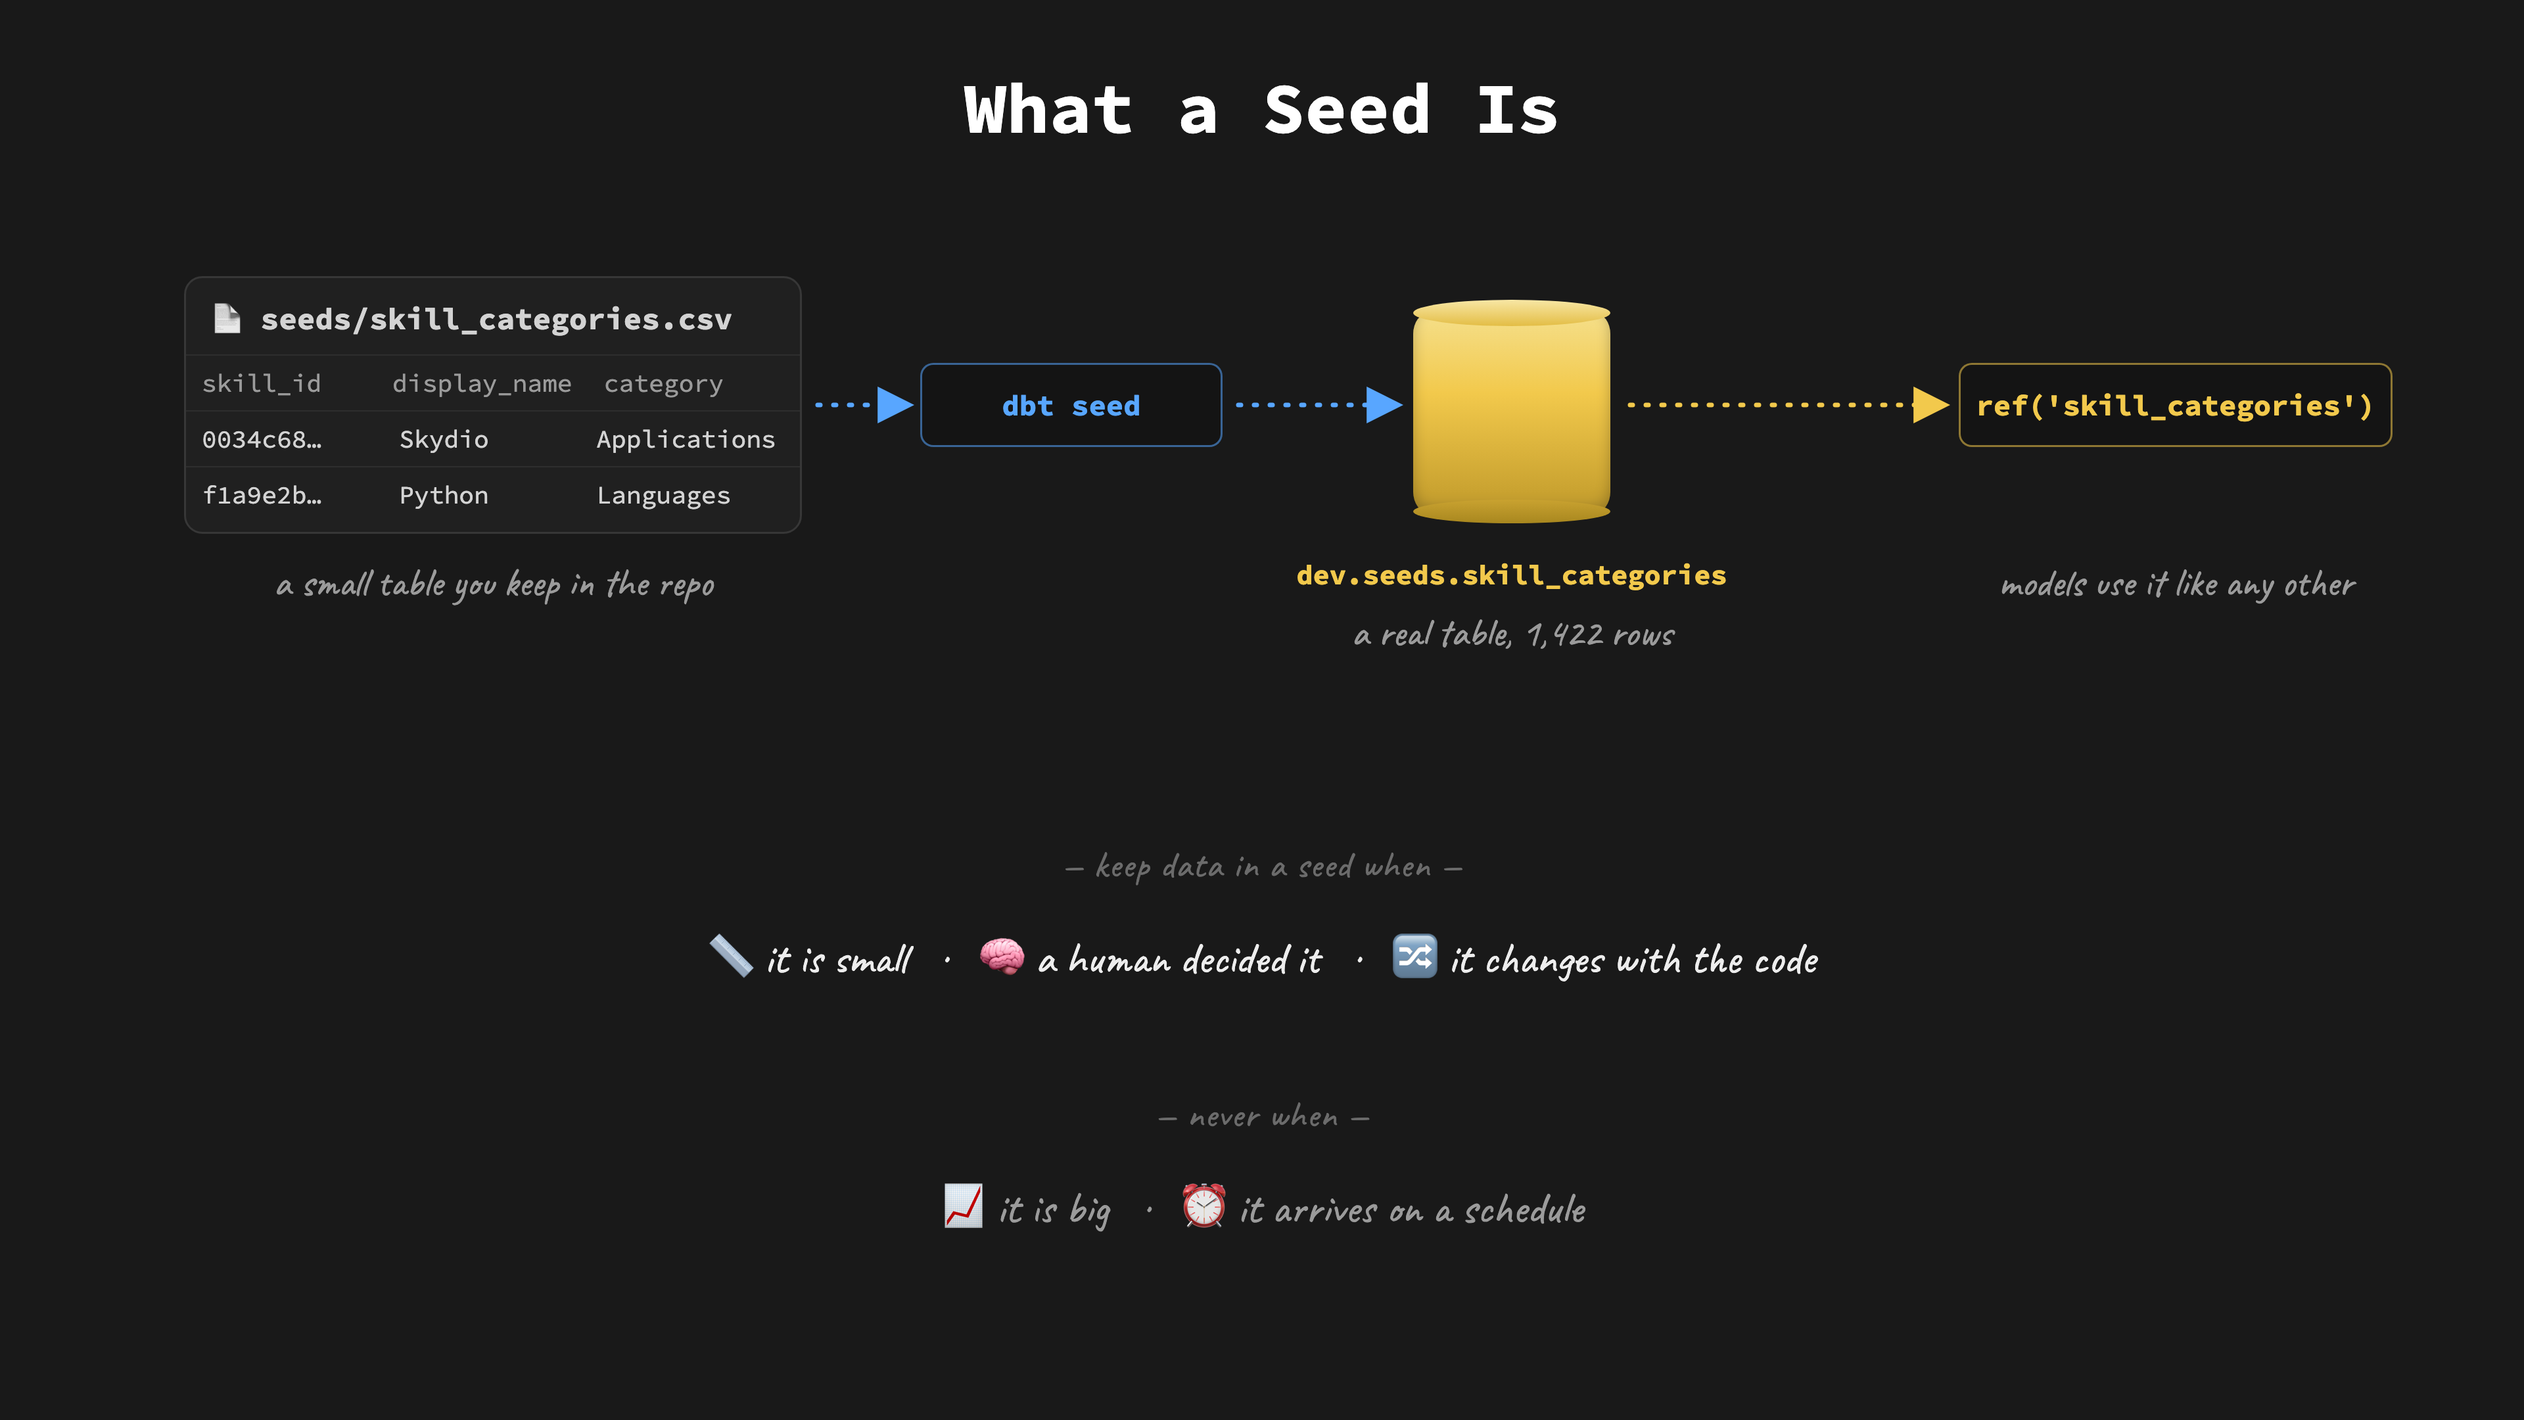
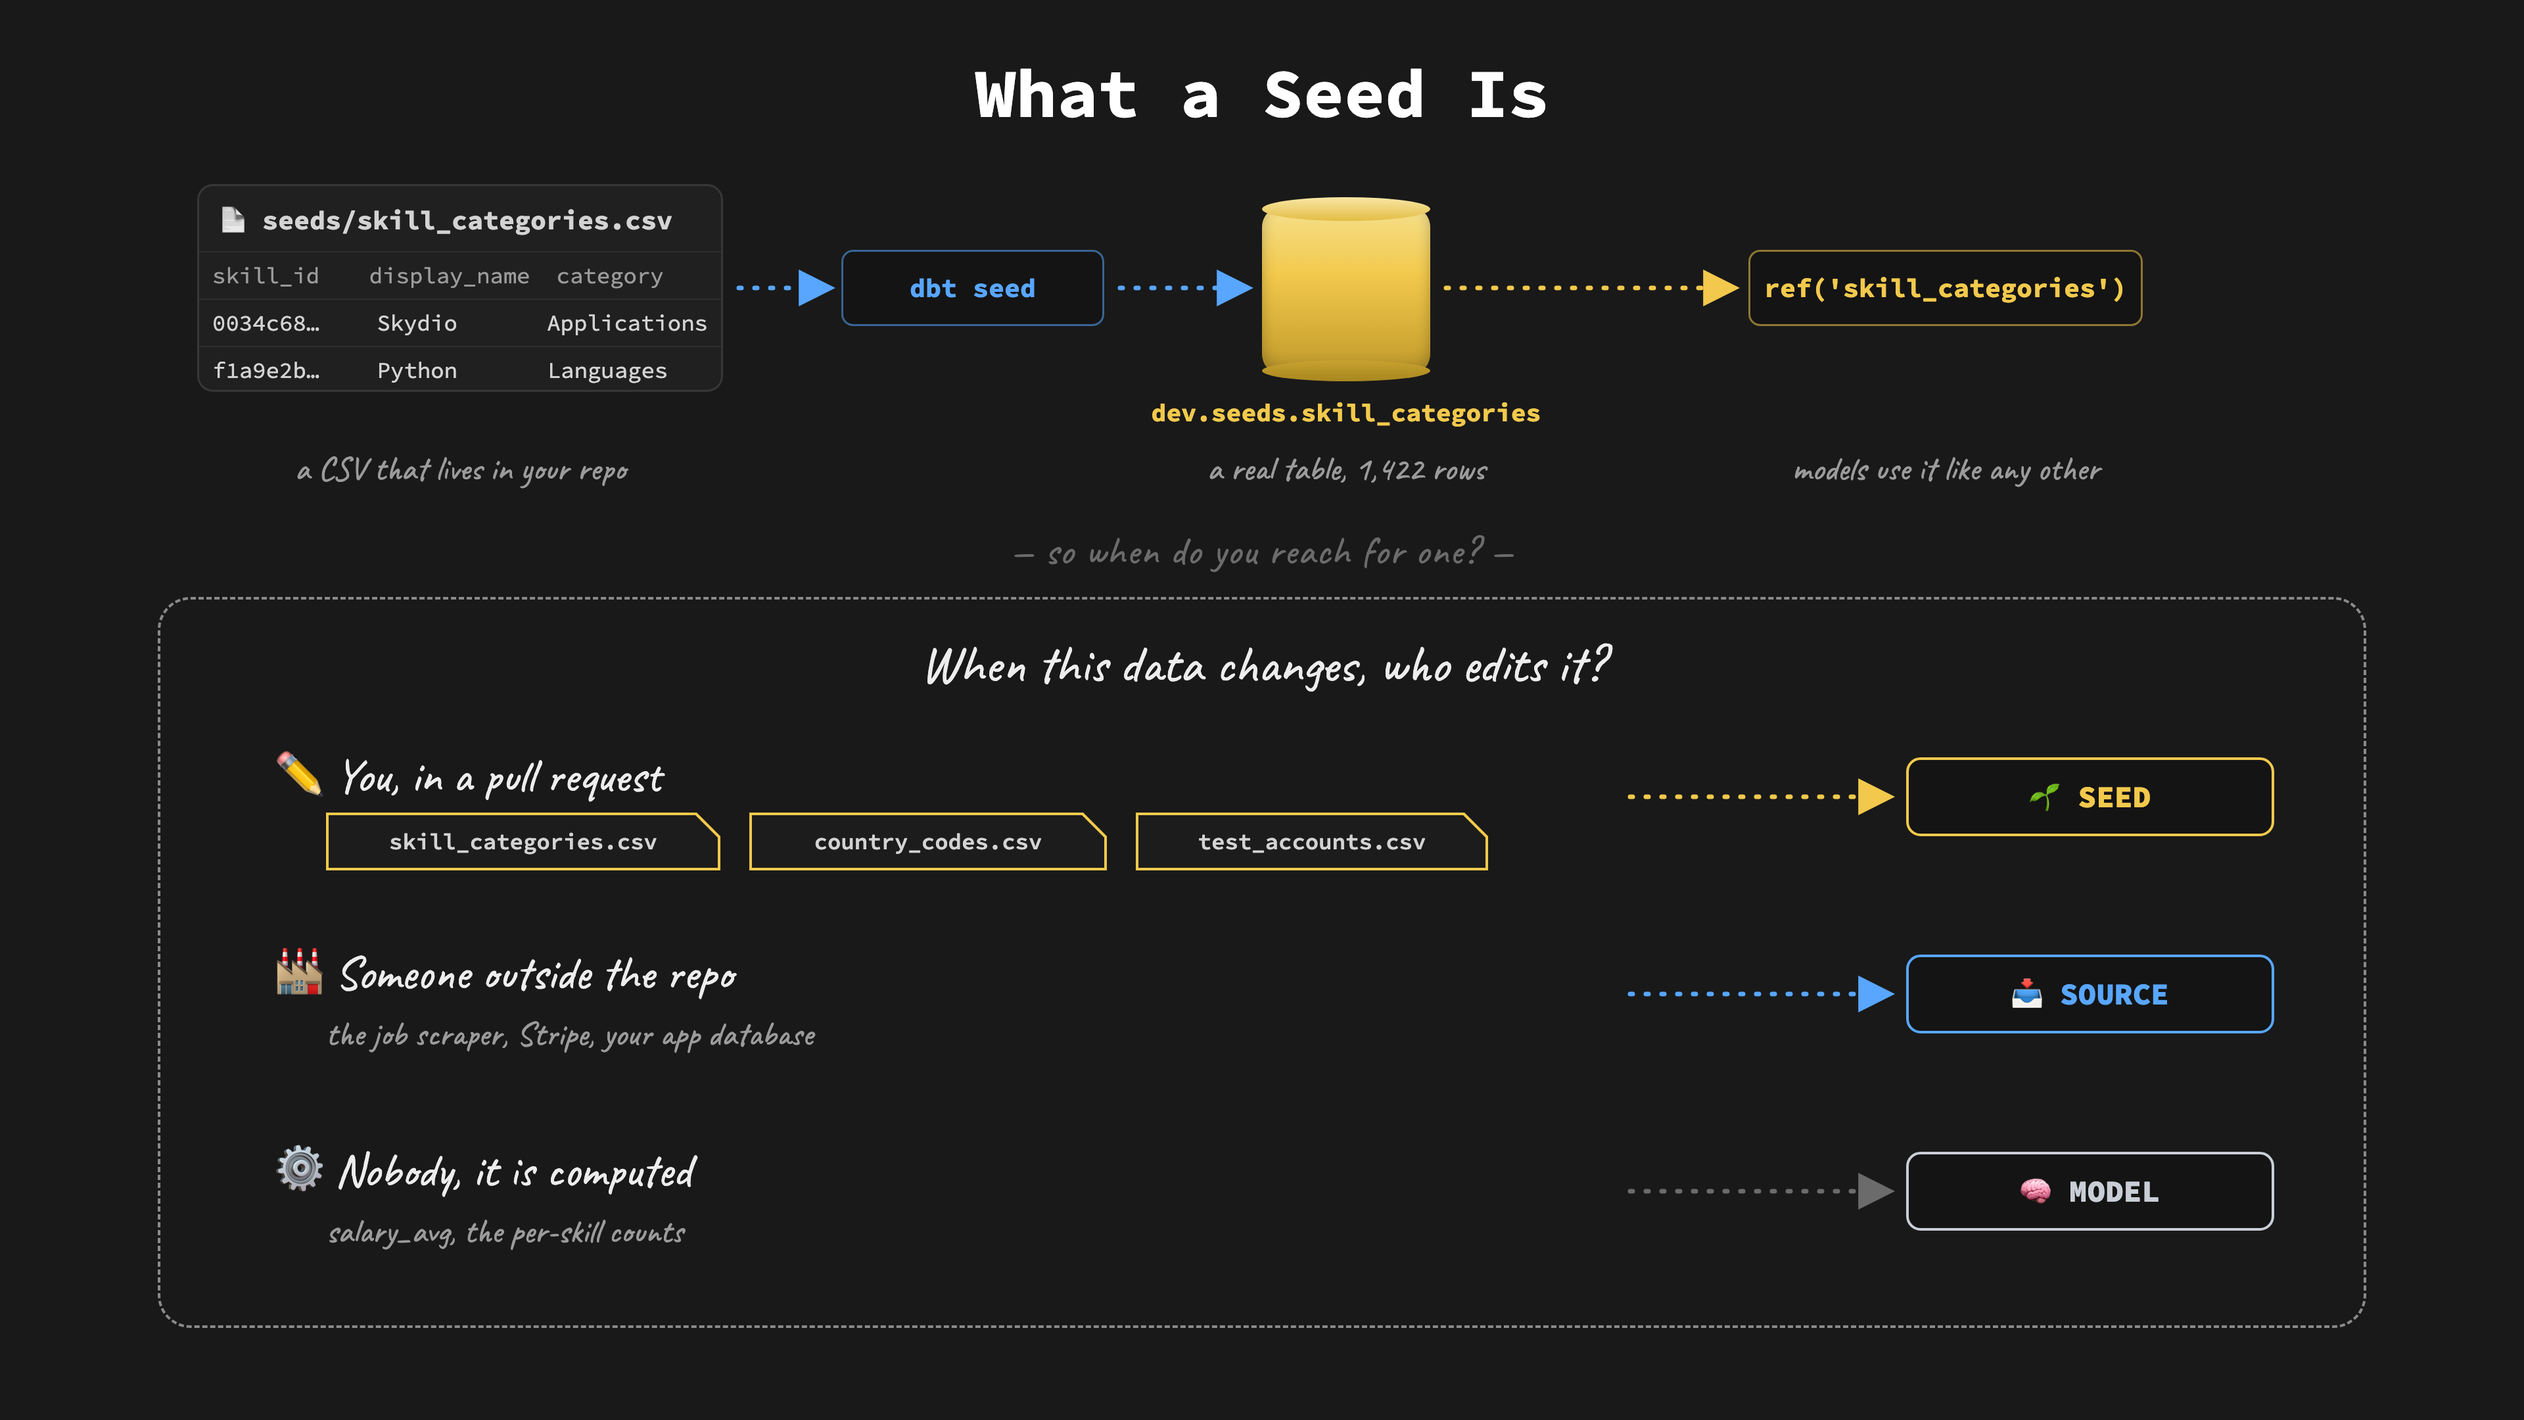
3.07_seeds v3: rebuilt around the decision question (Luke: 'it still doesn't answer when someone would use it')
Mechanism strip kept, but the bottom two-thirds is now the one question
that resolves every case - when this data changes, who edits it? - with
three branches: you in a PR (SEED), someone outside the repo (SOURCE),
nobody it is computed (MODEL).

Replaces the abstract adjectives (small / a human decided it / changes
with the code), which named properties rather than situations. Verified
against dbt docs: origin is the load-bearing gate ('lookup tables that
don't exist in any source systems'), size can disqualify a seed but
never qualify one.

diff --git a/resources/diagrams/3.07_seeds.html b/resources/diagrams/3.07_seeds.html
@@ -9,28 +9,42 @@
   :root{
     --bg:#191919; --panel:#202020; --line:#373737;
     --text:#D3D3D3; --muted:#9B9B9B; --faint:#6B6B6B;
-    --duck:#F2C94C; --blue:#58A6FF; --ink:#EDEDED;
+    --duck:#F2C94C; --blue:#58A6FF; --silver:#C9CED6; --ink:#EDEDED;
     --mono:'Source Code Pro',ui-monospace,'SF Mono',Menlo,Consolas,monospace;
     --hand:'Caveat',cursive;
   }
   html,body{margin:0;padding:0;background:var(--bg)}
   .stage{position:relative;width:1920px;height:1080px;overflow:hidden;font-family:var(--hand);color:var(--ink);background:var(--bg)}
-  .title{position:absolute;top:48px;left:0;width:1920px;font-family:var(--mono);font-size:54px;font-weight:700;color:#FFFFFF;text-align:center}
-  .card{position:absolute;box-sizing:border-box;border-radius:14px;background:var(--panel);border:1.5px solid var(--line)}
-  .cname{font-family:var(--mono);font-size:23px;font-weight:700;color:var(--text)}
-  .row{display:flex;font-family:var(--mono);font-size:19px}
-  .row span{padding:9px 12px;border-top:1px solid #2e2e2e}
+  .title{position:absolute;top:38px;left:0;width:1920px;font-family:var(--mono);font-size:52px;font-weight:700;color:#FFFFFF;text-align:center}
+
+  .card{position:absolute;box-sizing:border-box;border-radius:12px;background:var(--panel);border:1.5px solid var(--line)}
+  .cname{font-family:var(--mono);font-size:20px;font-weight:700;color:var(--text)}
+  .row{display:flex;font-family:var(--mono);font-size:17px}
+  .row span{padding:7px 10px;border-top:1px solid #2e2e2e}
   .cyl{position:absolute}
-  .cyl .body{position:absolute;left:0;right:0;top:10px;bottom:8px;border-radius:12px/16px;
+  .cyl .body{position:absolute;left:0;right:0;top:9px;bottom:7px;border-radius:11px/14px;
     background:linear-gradient(180deg,#f5df8a 0%,#F2C94C 40%,#c9a230 90%);box-shadow:inset 0 -5px 10px rgba(0,0,0,.25)}
-  .cyl .top{position:absolute;left:0;right:0;top:0;height:20px;border-radius:50%;background:linear-gradient(180deg,#f8e7a5,#e3bd45)}
-  .cyl .bot{position:absolute;left:0;right:0;bottom:0;height:18px;border-radius:50%;background:linear-gradient(180deg,#c9a230,#a8871f)}
-  .mlbl{position:absolute;font-family:var(--mono);font-size:21px;font-weight:700;text-align:center}
-  .hlbl{position:absolute;font-family:var(--hand);font-size:30px;color:var(--muted);text-align:center}
-  .cmd{position:absolute;box-sizing:border-box;border-radius:10px;display:flex;align-items:center;justify-content:center;
-    font-family:var(--mono);font-size:22px;font-weight:700;background:#141414;border:1.5px solid rgba(88,166,255,.55);color:var(--blue)}
-  .sect{position:absolute;font-family:var(--hand);font-size:28px;color:var(--faint);text-align:center;letter-spacing:.03em}
-  .why{position:absolute;font-family:var(--hand);font-size:34px;color:var(--ink);text-align:center;line-height:1.7}
+  .cyl .top{position:absolute;left:0;right:0;top:0;height:18px;border-radius:50%;background:linear-gradient(180deg,#f8e7a5,#e3bd45)}
+  .cyl .bot{position:absolute;left:0;right:0;bottom:0;height:16px;border-radius:50%;background:linear-gradient(180deg,#c9a230,#a8871f)}
+  .mlbl{position:absolute;font-family:var(--mono);font-size:19px;font-weight:700;text-align:center}
+  .pill{position:absolute;box-sizing:border-box;border-radius:9px;display:flex;align-items:center;justify-content:center;
+    font-family:var(--mono);font-size:20px;font-weight:700;background:#141414}
+
+  .sect{position:absolute;font-family:var(--hand);font-size:30px;color:var(--faint);text-align:center;letter-spacing:.03em}
+  .zone{position:absolute;box-sizing:border-box;border:2px dashed #8a8a8a;border-radius:25px}
+  .q{position:absolute;font-family:var(--hand);font-size:40px;color:var(--ink);text-align:center}
+
+  .sit{position:absolute;font-family:var(--hand);font-size:36px;color:var(--ink)}
+  .ex{position:absolute;font-family:var(--hand);font-size:26px;color:var(--muted)}
+  .verdict{position:absolute;box-sizing:border-box;height:60px;border-radius:11px;
+    display:flex;align-items:center;justify-content:center;
+    font-family:var(--mono);font-size:23px;font-weight:800;background:#141414}
+
+  .file{position:absolute;height:44px;clip-path:polygon(0 0, calc(100% - 18px) 0, 100% 18px, 100% 100%, 0 100%)}
+  .fin{position:absolute;inset:2px;background:#1c1c1c;
+    clip-path:polygon(0 0, calc(100% - 17px) 0, 100% 17px, 100% 100%, 0 100%);
+    display:flex;align-items:center;justify-content:center;
+    font-family:var(--mono);font-size:17px;font-weight:600;color:var(--text)}
   svg.art{position:absolute;inset:0;pointer-events:none}
 </style>
 </head>
@@ -39,33 +53,47 @@
 
   <div class="title">What a Seed Is</div>
 
-  <!-- 1: the CSV in your repo -->
-  <div class="card" style="left:140px;top:210px;width:470px;height:196px;padding:16px 0 0">
-    <div class="cname" style="padding:0 20px 12px">📄 seeds/skill_categories.csv</div>
-    <div class="row" style="color:var(--muted)"><span style="width:150px">skill_id</span><span style="width:150px">display_name</span><span style="width:170px">category</span></div>
-    <div class="row" style="color:var(--text)"><span style="width:150px">0034c68…</span><span style="width:150px">Skydio</span><span style="width:170px">Applications</span></div>
-    <div class="row" style="color:var(--text)"><span style="width:150px">f1a9e2b…</span><span style="width:150px">Python</span><span style="width:170px">Languages</span></div>
+  <!-- ================= the mechanism ================= -->
+  <div class="card" style="left:150px;top:140px;width:400px;height:158px;padding:13px 0 0">
+    <div class="cname" style="padding:0 16px 10px">📄 seeds/skill_categories.csv</div>
+    <div class="row" style="color:var(--muted)"><span style="width:125px">skill_id</span><span style="width:130px">display_name</span><span style="width:145px">category</span></div>
+    <div class="row" style="color:var(--text)"><span style="width:125px">0034c68…</span><span style="width:130px">Skydio</span><span style="width:145px">Applications</span></div>
+    <div class="row" style="color:var(--text)"><span style="width:125px">f1a9e2b…</span><span style="width:130px">Python</span><span style="width:145px">Languages</span></div>
   </div>
-  <div class="hlbl" style="left:140px;top:424px;width:470px">a small table you keep in the repo</div>
 
-  <!-- 2: the command -->
-  <div class="cmd" style="left:700px;top:276px;width:230px;height:64px">dbt seed</div>
+  <div class="pill" style="left:640px;top:190px;width:200px;height:58px;border:1.5px solid rgba(88,166,255,.55);color:var(--blue)">dbt seed</div>
 
-  <!-- 3: the warehouse table -->
-  <div class="cyl" style="left:1075px;top:228px;width:150px;height:170px"><div class="body"></div><div class="top"></div><div class="bot"></div></div>
-  <div class="mlbl" style="left:930px;top:424px;width:440px;color:var(--duck)">dev.seeds.skill_categories</div>
-  <div class="hlbl" style="left:930px;top:462px;width:440px">a real table, 1,422 rows</div>
+  <div class="cyl" style="left:960px;top:150px;width:128px;height:140px"><div class="body"></div><div class="top"></div><div class="bot"></div></div>
+  <div class="mlbl" style="left:824px;top:302px;width:400px;color:var(--duck)">dev.seeds.skill_categories</div>
 
-  <!-- 4: used like any model -->
-  <div class="cmd" style="left:1490px;top:276px;width:330px;height:64px;border-color:rgba(242,201,76,.55);color:var(--duck)">ref('skill_categories')</div>
-  <div class="hlbl" style="left:1460px;top:424px;width:390px">models use it like any other</div>
+  <div class="pill" style="left:1330px;top:190px;width:300px;height:58px;border:1.5px solid rgba(242,201,76,.55);color:var(--duck)">ref('skill_categories')</div>
 
-  <!-- why -->
-  <div class="sect" style="left:0;top:640px;width:1920px">— keep data in a seed when —</div>
-  <div class="why" style="left:0;top:700px;width:1920px">📏 it is small &nbsp;&nbsp;·&nbsp;&nbsp; 🧠 a human decided it &nbsp;&nbsp;·&nbsp;&nbsp; 🔀 it changes with the code</div>
+  <div class="ex" style="left:150px;top:340px;width:400px;text-align:center">a CSV that lives in your repo</div>
+  <div class="ex" style="left:824px;top:340px;width:400px;text-align:center">a real table, 1,422 rows</div>
+  <div class="ex" style="left:1330px;top:340px;width:300px;text-align:center">models use it like any other</div>
 
-  <div class="sect" style="left:0;top:830px;width:1920px">— never when —</div>
-  <div class="why" style="left:0;top:890px;width:1920px;color:var(--muted)">📈 it is big &nbsp;&nbsp;·&nbsp;&nbsp; ⏰ it arrives on a schedule</div>
+  <!-- ================= the question ================= -->
+  <div class="sect" style="left:0;top:400px;width:1920px">— so when do you reach for one? —</div>
+
+  <div class="zone" style="left:120px;top:454px;width:1680px;height:556px"></div>
+  <div class="q" style="left:120px;top:480px;width:1680px">When this data changes, who edits it?</div>
+
+  <!-- branch 1: SEED -->
+  <div class="sit" style="left:210px;top:566px;width:820px">✏ You, in a pull request</div>
+  <div class="file" style="left:248px;top:618px;width:300px;background:var(--duck)"><div class="fin">skill_categories.csv</div></div>
+  <div class="file" style="left:570px;top:618px;width:272px;background:var(--duck)"><div class="fin">country_codes.csv</div></div>
+  <div class="file" style="left:864px;top:618px;width:268px;background:var(--duck)"><div class="fin">test_accounts.csv</div></div>
+  <div class="verdict" style="left:1450px;top:576px;width:280px;border:2px solid var(--duck);color:var(--duck)">🌱 SEED</div>
+
+  <!-- branch 2: SOURCE -->
+  <div class="sit" style="left:210px;top:716px;width:820px">🏭 Someone outside the repo</div>
+  <div class="ex" style="left:248px;top:770px;width:900px">the job scraper, Stripe, your app database</div>
+  <div class="verdict" style="left:1450px;top:726px;width:280px;border:2px solid var(--blue);color:var(--blue)">📥 SOURCE</div>
+
+  <!-- branch 3: MODEL -->
+  <div class="sit" style="left:210px;top:866px;width:820px">⚙ Nobody, it is computed</div>
+  <div class="ex" style="left:248px;top:920px;width:900px">salary_avg, the per-skill counts</div>
+  <div class="verdict" style="left:1450px;top:876px;width:280px;border:2px solid var(--silver);color:var(--silver)">🧠 MODEL</div>
 
   <svg class="art" viewBox="0 0 1920 1080">
     <defs>
@@ -75,10 +103,17 @@
       <marker id="ahd" viewBox="0 0 10 10" refX="8" refY="5" markerWidth="8" markerHeight="8" orient="auto-start-reverse">
         <path d="M 0 0 L 10 5 L 0 10 z" fill="#F2C94C"/>
       </marker>
+      <marker id="ahg" viewBox="0 0 10 10" refX="8" refY="5" markerWidth="8" markerHeight="8" orient="auto-start-reverse">
+        <path d="M 0 0 L 10 5 L 0 10 z" fill="#6B6B6B"/>
+      </marker>
     </defs>
-    <line x1="622" y1="308" x2="690" y2="308" stroke="#58A6FF" stroke-width="3.5" stroke-dasharray="2 10" stroke-linecap="round" marker-end="url(#ahb)"/>
-    <line x1="942" y1="308" x2="1062" y2="308" stroke="#58A6FF" stroke-width="3.5" stroke-dasharray="2 10" stroke-linecap="round" marker-end="url(#ahb)"/>
-    <line x1="1240" y1="308" x2="1478" y2="308" stroke="#F2C94C" stroke-width="3.5" stroke-dasharray="2 10" stroke-linecap="round" marker-end="url(#ahd)"/>
+    <line x1="562" y1="219" x2="630" y2="219" stroke="#58A6FF" stroke-width="3.5" stroke-dasharray="2 10" stroke-linecap="round" marker-end="url(#ahb)"/>
+    <line x1="852" y1="219" x2="948" y2="219" stroke="#58A6FF" stroke-width="3.5" stroke-dasharray="2 10" stroke-linecap="round" marker-end="url(#ahb)"/>
+    <line x1="1100" y1="219" x2="1318" y2="219" stroke="#F2C94C" stroke-width="3.5" stroke-dasharray="2 10" stroke-linecap="round" marker-end="url(#ahd)"/>
+
+    <line x1="1240" y1="606" x2="1436" y2="606" stroke="#F2C94C" stroke-width="3.5" stroke-dasharray="2 10" stroke-linecap="round" marker-end="url(#ahd)"/>
+    <line x1="1240" y1="756" x2="1436" y2="756" stroke="#58A6FF" stroke-width="3.5" stroke-dasharray="2 10" stroke-linecap="round" marker-end="url(#ahb)"/>
+    <line x1="1240" y1="906" x2="1436" y2="906" stroke="#6B6B6B" stroke-width="3.5" stroke-dasharray="2 10" stroke-linecap="round" marker-end="url(#ahg)"/>
   </svg>
 
 </div>
